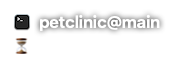
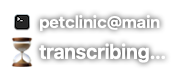
Make the two waits legible, and give the right chord a second reading
**`preparing` and `transcribing…` are drawn big** — a 30pt hourglass and a
semibold 20, where every other row is 16 and 17. They are the only two
states in which Victor is waiting on this app, and they were icon-sized
in `secondaryLabelColor` on a bare chip: half-transparent dark grey with
no halo, over the dark terminals the chip lives on. Exactly the bug the
selection row had, on the two rows whose whole question is *is it still
doing something?*, asked from wherever he has looked away to. The size
is half the fix; the other half is adding the hint rows' labels to
`refreshChrome`'s white-plus-halo list — the third row to be left off it.

**Right held + the wheel held a second spawns a session.** ⌘ + the wheel
already does, and ⌘ is a key — which is what he does not have to hand
across the room with only the mouse. So the right chord now carries both
readings the way the left one does: tap to disconnect, hold to open a
terminal that does not exist yet. Left is *point at something that
exists*; right is *let this go* / *make a new one*.

The disconnect moves to the release to make room, because firing it at
the press and spawning a second later would do both — and a spawn is
documented to leave the binding where it was. The spawn half is not
gated on `bound`: the moment a new session is most wanted is when there
is none.

Claude-Session: https://claude.ai/code/session_01Cib7FNew181eehp5DYXeGB

Changed region(s): [[0.2, 0.1739, 0.9429, 0.4928], [0.2, 0.4928, 0.9429, 0.8116], [0.0571, 0.1739, 0.2, 0.8406]]

diff --git a/Sources/WalkieTalkie/HotkeyTap.swift b/Sources/WalkieTalkie/HotkeyTap.swift
@@ -245,6 +245,11 @@ final class HotkeyTap {
     /// that is where a tap is told from a hold — and remembered rather than
     /// re-read, since the modifier may well be let go before the button is.
     private var wheelSpawn = false
+    /// …and whether the **right** button was the one held when we took it. The
+    /// right chord means two things — disconnect on a tap, a new session on a
+    /// hold — so the press cannot decide, and the release has to know which
+    /// branch swallowed it.
+    private var wheelRightChord = false
     private var wheelHold: DispatchWorkItem?
 
     private let stateLock = NSLock()
@@ -409,6 +414,11 @@ private let VK_ESCAPE: CGKeyCode = 0x35        // esc
             //     wheel              → bind: point the relay at the window in front
             //   left held, then
             //     wheel held 1s      → …and start the dictation at it
+            //   right held, then
+            //     wheel              → disconnect: let the binding go
+            //   right held, then
+            //     wheel held 1s      → dictate at a terminal that does not exist
+            //                          yet — ⌘ + the wheel, without the keyboard
             //
             // **Starting used to cost a one-second hold and now costs a tap.**
             // The hold was buying one thing: a bare middle click could still be
@@ -446,15 +456,44 @@ private let VK_ESCAPE: CGKeyCode = 0x35        // esc
             //
             // Nothing bound is nothing to disconnect, and the branch is skipped
             // so the click stays available to whatever is underneath.
-            if button == MOUSE_BUTTON_MIDDLE && type == .otherMouseDown && bare && rightIsHeld && bound {
-                wheelArmed = true    // the release is ours too
+            //
+            // **And held, it opens a session instead of closing one.** ⌘ + the
+            // wheel already spawns, and ⌘ is a key — which is exactly what
+            // Victor does not have to hand when he is across the room from the
+            // laptop with only the mouse. So the right chord carries both
+            // readings, the same way the left one does: tap to disconnect, hold
+            // to start a dictation at a terminal that does not exist yet.
+            //
+            // The pairing is not arbitrary. The left chord is *point at
+            // something that exists*; the right one is now *let this one go* /
+            // *make a new one*, which are the two things you do when the session
+            // in front of you is not the one you want.
+            //
+            // **The disconnect therefore moves to the release**, where it can be
+            // told from a hold. Firing it at the press and spawning a second
+            // later would do both — and the spawn is documented to leave the
+            // binding exactly where it was.
+            if button == MOUSE_BUTTON_MIDDLE && type == .otherMouseDown && bare && rightIsHeld {
                 // A hold timer from a press we are now overriding must not fire
                 // on the dictation this click is ending.
-                wheelDown = false
                 wheelHold?.cancel()
                 wheelHold = nil
-                Log.info("🔌 right held + wheel — disconnecting")
-                DispatchQueue.global().async { [weak self] in self?.onWheelUnbind?() }
+                wheelDown = true
+                wheelArmed = false
+                wheelRightChord = true
+                let work = DispatchWorkItem { [weak self] in
+                    guard let self = self, self.wheelDown, self.wheelRightChord else { return }
+                    self.wheelDown = false
+                    self.wheelArmed = true
+                    self.wheelRightChord = false
+                    // Ending a dictation is ending one, whichever gesture opened
+                    // it — the destination belongs to the press that started it.
+                    Log.info(self.dictating ? "🎙 right held + wheel held — ending the dictation"
+                                            : "✨ right held + wheel held — dictating at a new Claude Code")
+                    DispatchQueue.global().async { [weak self] in self?.onSpawnToggle?() }
+                }
+                wheelHold = work
+                DispatchQueue.main.asyncAfter(deadline: .now() + Self.chordDictateSeconds, execute: work)
                 return nil
             }
 
@@ -477,6 +516,7 @@ private let VK_ESCAPE: CGKeyCode = 0x35        // esc
                     wheelArmed = false
                     wheelDown = false
                     wheelSpawn = false
+                    wheelRightChord = false
                     wheelHold?.cancel()
                     wheelHold = nil
                 }
@@ -496,6 +536,24 @@ private let VK_ESCAPE: CGKeyCode = 0x35        // esc
             // what is left — a press we took and nothing acted on — is the tap.
             if button == MOUSE_BUTTON_MIDDLE && type == .otherMouseUp && (wheelArmed || wheelDown) {
                 let tapped = wheelDown && !wheelArmed
+                // **The right chord, let go before the hold fired: disconnect.**
+                // Judged here rather than at the press because that is the only
+                // place a tap can be told from the hold that spawns — see the
+                // branch below. Nothing bound is nothing to disconnect, and the
+                // press has already been swallowed, so the click simply does
+                // nothing rather than reaching the app underneath late.
+                if wheelRightChord {
+                    wheelRightChord = false
+                    wheelArmed = false
+                    wheelDown = false
+                    wheelHold?.cancel()
+                    wheelHold = nil
+                    if tapped && bound {
+                        Log.info("🔌 right held + wheel — disconnecting")
+                        DispatchQueue.global().async { [weak self] in self?.onWheelUnbind?() }
+                    }
+                    return nil
+                }
                 // Read off the **press**, not off the flags now: ⌘ is very often
                 // let go before the button is, and a gesture that changed its
                 // mind between the two halves of one click would be the least

diff --git a/Sources/WalkieTalkie/RelayWindow.swift b/Sources/WalkieTalkie/RelayWindow.swift
@@ -366,6 +366,13 @@ private let frontLabel = NSTextField(labelWithString: "")
         NSAttributedString(string: words, attributes: [.font: hintFont])
     }
 
+    /// `preparing` / `transcribing…` — bigger and heavier than any other row's
+    /// words, because they are the only ones that mean *wait*. See `statusLines`.
+    private func waitText(_ words: String) -> NSAttributedString {
+        NSAttributedString(string: words,
+                           attributes: [.font: NSFont.systemFont(ofSize: 20, weight: .semibold)])
+    }
+
     /// The subtitle row is now flashes only. The shortcut legend used to live here
     /// and has moved into the recording row, where it sits beside the number it
     /// changes instead of being a separate line of instructions.
@@ -431,8 +438,20 @@ private let frontLabel = NSTextField(labelWithString: "")
             return Self.showsGestureHints ? [(Self.mouseWheelGlyph, plain("send"), iconInk)] : []
         }
         guard sentPrompt == nil else { return [] }
-        if transcribing { return [(Self.waitGlyph, plain("transcribing…"), iconInk)] }
-        if engineLoading { return [(Self.waitGlyph, plain("preparing"), iconInk)] }
+        // **The two waits are drawn big**, at `hintInk` rather than icon size,
+        // and in a heavier face than every other row. They are the only states in
+        // which Victor is *waiting on this app* — the model coming up, the model
+        // chewing — and the answer to "is it still doing something?" has to be
+        // readable from where he has already looked away to. At icon size, in
+        // `secondaryLabelColor`, on a bare chip over a dark terminal, it was a
+        // grey smudge beside the pointer; he asked for it to be visible, and the
+        // hourglass is the half that carries the meaning without being read.
+        //
+        // They are also the one pair of states where the chip has nothing else on
+        // it: the title row is suppressed while the engine loads, so the row can
+        // afford the height the mouse hints take.
+        if transcribing { return [(Self.waitGlyphBig, waitText("transcribing…"), Self.hintInk)] }
+        if engineLoading { return [(Self.waitGlyphBig, waitText("preparing"), Self.hintInk)] }
         guard !listening else { return [] }
         // **Nothing at all while unbound.** It carried `🛞 bind` for one build,
         // on the reading that the state should have a visible way out. It does
@@ -1504,6 +1523,9 @@ private let frontLabel = NSTextField(labelWithString: "")
     private static let pulseGlyph = Glyphs.emoji("🔴", ink: iconInk)
     private static let cameraGlyph = Glyphs.emoji("📸", ink: iconInk)
     private static let waitGlyph = Glyphs.emoji("⏳", ink: iconInk)
+    /// The same hourglass at hint size — see `statusLines` for why the waits are
+    /// the two rows that get it.
+    private static let waitGlyphBig = Glyphs.emoji("⏳", ink: hintInk)
     /// The bound chip at rest (`collapsed`). **One glyph for every destination**,
     /// on purpose: standing by, the question is not *which* terminal — that is
     /// what starting to talk asks, and what the name answers — it is whether the
@@ -1802,7 +1824,21 @@ private let frontLabel = NSTextField(labelWithString: "")
             // like a shutter that had failed to read the selection.
             selectionLabel.shadow = Self.halo()
             selectionLabel.textColor = .white
+            // **The same row the selection was, and left out for the same
+            // reason.** `preparing`, `transcribing…` and the mouse hints all
+            // live here, and they kept `secondaryLabelColor` on a chip that
+            // spends its life over dark terminals — half-transparent dark grey
+            // with no halo, i.e. exactly the "I cannot see it" Victor reported.
+            for hint in hintRows {
+                hint.label.wantsLayer = true
+                hint.label.shadow = Self.halo()
+                hint.label.textColor = .white
+            }
         } else {
+            for hint in hintRows {
+                hint.label.shadow = nil
+                hint.label.textColor = .secondaryLabelColor
+            }
             hintLabel.shadow = nil
             titleLabel.shadow = nil
             recordInfo.shadow = nil

diff --git a/docs/overlay-states.html b/docs/overlay-states.html
@@ -179,11 +179,11 @@
       <section class="card" id="preparing">
         <header>
           <h3>The model is coming up</h3>
-          <div class="tags"><span class="tag tag-chip" title="bare text beside the cursor — no blur, no shadow, no ✕">chip</span><span class="tag">alpha 0.80</span><span class="tag">127×46 pt</span></div>
+          <div class="tags"><span class="tag tag-chip" title="bare text beside the cursor — no blur, no shadow, no ✕">chip</span><span class="tag">alpha 0.80</span><span class="tag">142×58 pt</span></div>
         </header>
-        <div class="shot"><img src="states/preparing.png" width="127" height="46" style="opacity:0.8" alt="The model is coming up"></div>
+        <div class="shot"><img src="states/preparing.png" width="142" height="58" style="opacity:0.8" alt="The model is coming up"></div>
         <p class="when">The ~10 s after a bind, or after the wheel if the weights are not resident.</p>
-        <p class="note">One row, and the 🎙 is not on it. The microphone <em>is</em> the readiness, so showing it above a line that says <code>preparing</code> was the chip contradicting itself — and a wheel pressed on the strength of the top line loses the first seconds of the sentence to an engine that is not up. The hourglass is the whole chip until it is; then the microphone appears, and means it.</p>
+        <p class="note">One row, and the 🎙 is not on it. The microphone <em>is</em> the readiness, so showing it above a line that says <code>preparing</code> was the chip contradicting itself — and a wheel pressed on the strength of the top line loses the first seconds of the sentence to an engine that is not up. The hourglass is the whole chip until it is; then the microphone appears, and means it. <strong>Drawn big</strong> — 30pt of hourglass and a semibold 20 beside it, where every other row is 16 and 17: this and <code>transcribing…</code> are the only two states in which Victor is waiting on the app, and the answer to <em>is it still doing something?</em> has to be readable from wherever he looked away to. It was icon-sized and grey, and unreadable on the dark terminals the chip lives over.</p>
         <code class="slug">preparing</code>
       </section>
     </div>
@@ -272,11 +272,11 @@
       <section class="card" id="transcribing">
         <header>
           <h3>Waiting on the model</h3>
-          <div class="tags"><span class="tag tag-chip" title="bare text beside the cursor — no blur, no shadow, no ✕">chip</span><span class="tag">alpha 0.80</span><span class="tag">175×69 pt</span></div>
+          <div class="tags"><span class="tag tag-chip" title="bare text beside the cursor — no blur, no shadow, no ✕">chip</span><span class="tag">alpha 0.80</span><span class="tag">181×81 pt</span></div>
         </header>
-        <div class="shot"><img src="states/transcribing.png" width="175" height="69" style="opacity:0.8" alt="Waiting on the model"></div>
+        <div class="shot"><img src="states/transcribing.png" width="181" height="81" style="opacity:0.8" alt="Waiting on the model"></div>
         <p class="when">Between the wheel click that ends the sentence and the panel that shows what it heard.</p>
-        <p class="note">The same row the invitation and <code>preparing</code> use: what this chip is doing, in one place. It used to be a flash, which put it at the foot of a panel while the thing it replaced sat at the top.</p>
+        <p class="note">The same row the invitation and <code>preparing</code> use: what this chip is doing, in one place — and at the same enlarged size, for the same reason: it is the other state where he is waiting on the app. It used to be a flash, which put it at the foot of a panel while the thing it replaced sat at the top.</p>
         <code class="slug">transcribing</code>
       </section>
     </div>
@@ -467,7 +467,7 @@
       </section>
     </div>
 <footer>
-  Generated from <code>OverlayStates.swift</code> · repo at 6d7c0e9 · 01 Sep 2026 · built 01 Sep 2026, 18:17
+  Generated from <code>OverlayStates.swift</code> · repo at 53bc804 · 01 Sep 2026 · built 01 Sep 2026, 18:24
 </footer>
 <button class="toggle" onclick="document.body.classList.toggle('light')">Backdrop: dark / light</button>
 </body>

diff --git a/Sources/WalkieTalkie/OverlayStates.swift b/Sources/WalkieTalkie/OverlayStates.swift
@@ -96,7 +96,7 @@ enum OverlayStates {
 
             Shot(slug: "preparing", group: "At rest", title: "The model is coming up",
                  when: "The ~10 s after a bind, or after the wheel if the weights are not resident.",
-                 note: "One row, and the 🎙 is not on it. The microphone *is* the readiness, so showing it above a line that says `preparing` was the chip contradicting itself — and a wheel pressed on the strength of the top line loses the first seconds of the sentence to an engine that is not up. The hourglass is the whole chip until it is; then the microphone appears, and means it.",
+                 note: "One row, and the 🎙 is not on it. The microphone *is* the readiness, so showing it above a line that says `preparing` was the chip contradicting itself — and a wheel pressed on the strength of the top line loses the first seconds of the sentence to an engine that is not up. The hourglass is the whole chip until it is; then the microphone appears, and means it. **Drawn big** — 30pt of hourglass and a semibold 20 beside it, where every other row is 16 and 17: this and `transcribing…` are the only two states in which Victor is waiting on the app, and the answer to *is it still doing something?* has to be readable from wherever he looked away to. It was icon-sized and grey, and unreadable on the dark terminals the chip lives over.",
                  shape: "chip", alpha: 0.80) { o in
                 o.setBound(label: "petclinic", folder: "petclinic@main", icon: terminal)
                 o.setEngineLoading(true)
@@ -177,7 +177,7 @@ enum OverlayStates {
 
             Shot(slug: "transcribing", group: "Dictating", title: "Waiting on the model",
                  when: "Between the wheel click that ends the sentence and the panel that shows what it heard.",
-                 note: "The same row the invitation and `preparing` use: what this chip is doing, in one place. It used to be a flash, which put it at the foot of a panel while the thing it replaced sat at the top.",
+                 note: "The same row the invitation and `preparing` use: what this chip is doing, in one place — and at the same enlarged size, for the same reason: it is the other state where he is waiting on the app. It used to be a flash, which put it at the foot of a panel while the thing it replaced sat at the top.",
                  shape: "chip", alpha: 0.80) { o in
                 o.setBound(label: "petclinic", folder: "petclinic@main", icon: terminal)
                 o.setTranscribing(true)

diff --git a/README.md b/README.md
@@ -233,6 +233,7 @@ once, each taking one):
 | **hold left, click the wheel** | Points the relay at the window in front — the same call as ⌘⌃B, minus the toggle: made twice on the same terminal it binds twice rather than letting go |
 | **hold left, hold the wheel 1s** | The same bind, **and** it starts the dictation at it — one gesture instead of the chord followed by a second click |
 | **hold right, click the wheel** | Lets the binding go — the same call as the menu's **Disconnect**. Outranks every other meaning the wheel has, so it works mid-dictation too |
+| **hold right, hold the wheel 1s** | The same **new session** ⌘ + the wheel opens — without the keyboard, for when you are across the room with only the mouse |
 | **back mouse button** | One more screenshot — but only while dictating; otherwise the button is untouched |
 | **F3** | The same shot, from the keyboard |
 | **hold ⌘⇧ in Chrome** | Outlines and names the element under the cursor |
